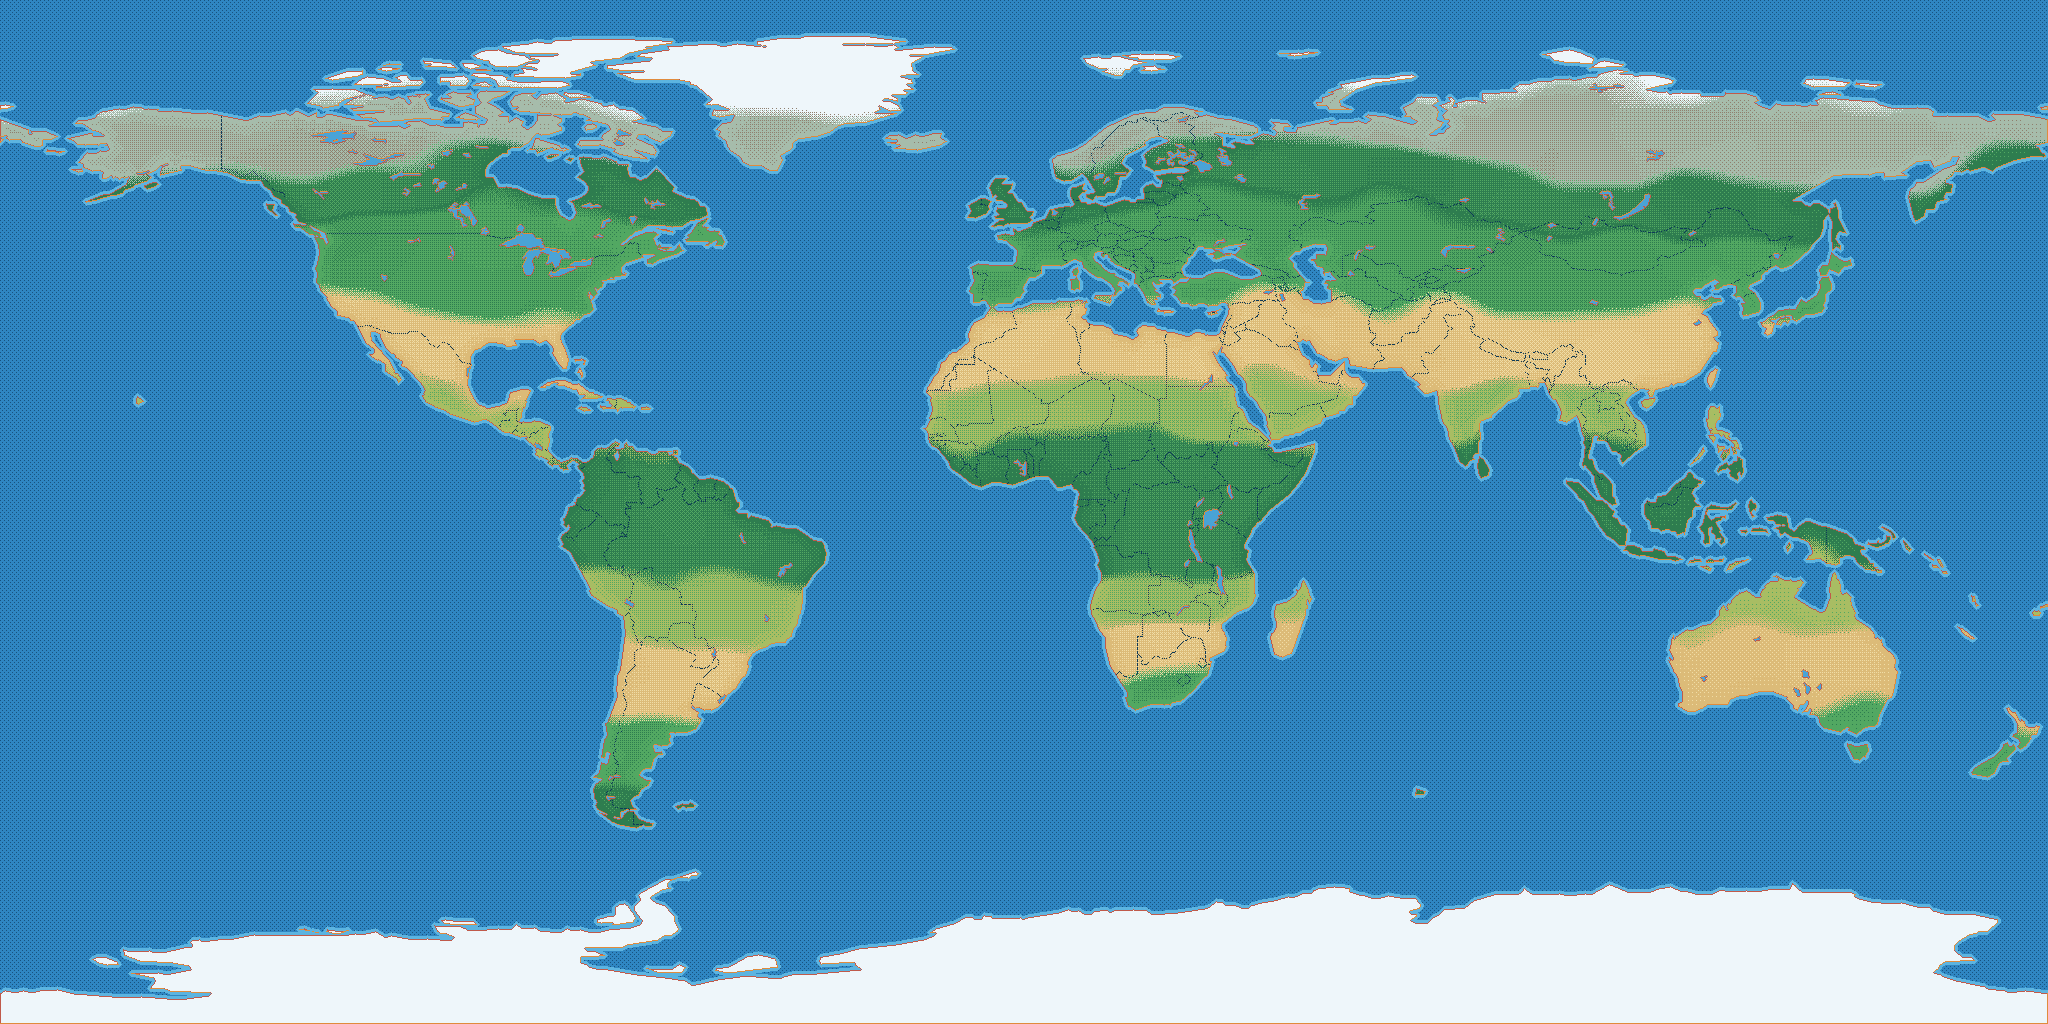
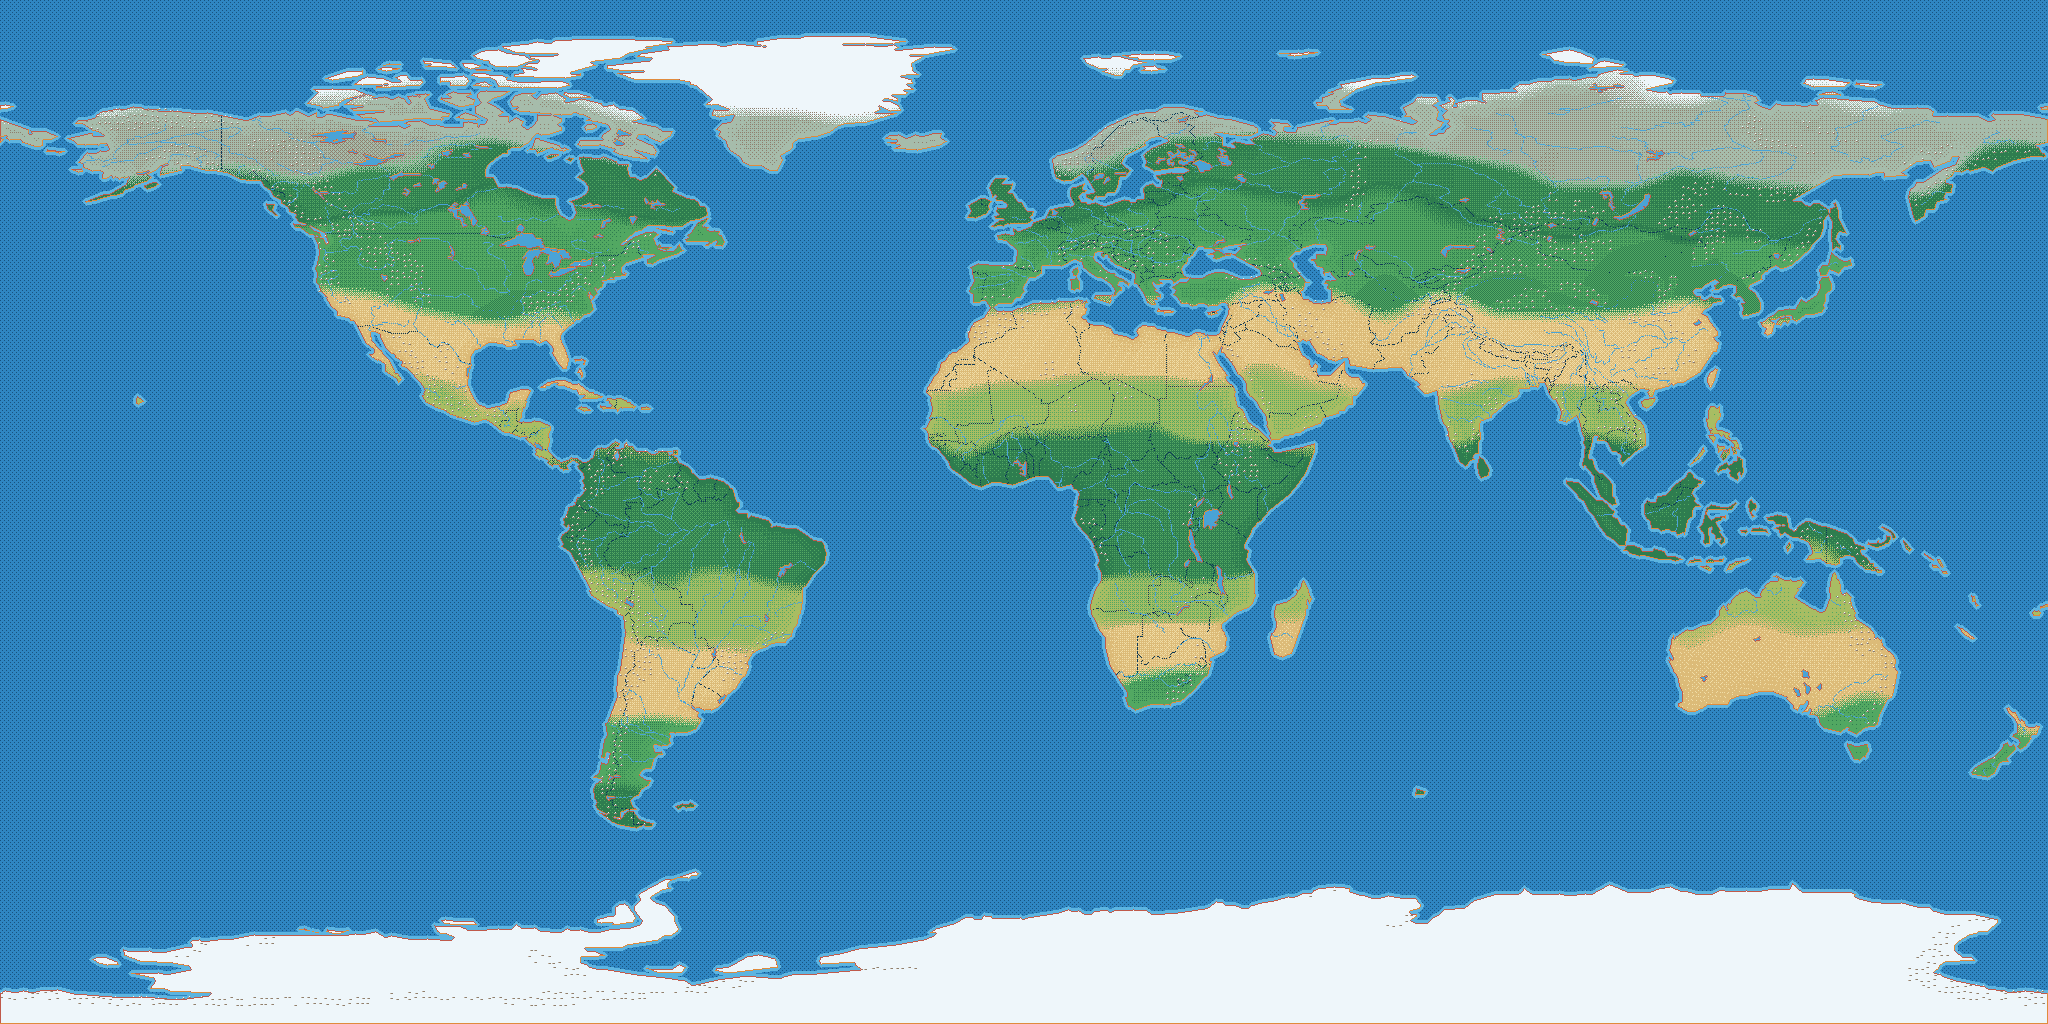
Physical terrain on the close map tiers: mountains, rivers, forests, deserts
Mountain glyphs are gated by Natural Earth's real range polygons — the Rockies
are mountains and Kansas stays plains — with jittered, randomly-thinned
placement so chains read as terrain rather than ranks. Rivers come from the
50m centerlines, stippled so they stay pixel-art. Forest bands get grass
clearings, grass bands get noise-gated forest clumps, deserts get ripples.
Far tiers stay clean.

diff --git a/tools/build_world_geometry.py b/tools/build_world_geometry.py
@@ -94,7 +94,8 @@ BAYER4 = np.array([
 
 class Lod:
     def __init__(self, name, width, height, land_src, simplify_px,
-                 min_area_px, shelf_px, lakes, borders, states, dither_scale=1.0):
+                 min_area_px, shelf_px, lakes, borders, states, dither_scale=1.0,
+                 features=False):
         self.name = name
         self.width = width
         self.height = height
@@ -108,6 +109,9 @@ class Lod:
         # Finer tiers are viewed closer, where a heavy stipple stops reading as
         # terrain and starts reading as screen noise.
         self.dither_scale = dither_scale
+        # Close tiers get physical features: mountain glyphs, rivers, forest
+        # and desert texture. Far tiers stay clean.
+        self.features = features
 
 
 # Three tiers, sized so each one displays at an integer scale at a camera zoom
@@ -121,10 +125,10 @@ LODS = [
         lakes="ne_50m_lakes", borders=None, states=None),
     Lod("lod2", 2048, 1024, "ne_110m_land", 0.75, 6.0, 3,
         lakes="ne_50m_lakes", borders="ne_110m_admin_0_boundary_lines_land", states=None,
-        dither_scale=0.7),
+        dither_scale=0.7, features=True),
     Lod("lod3", 4096, 2048, "ne_50m_land", 0.6, 8.0, 4,
         lakes="ne_50m_lakes", borders="ne_50m_admin_0_boundary_lines_land",
-        states="ne_50m_admin_1_states_provinces_lines", dither_scale=0.45),
+        states="ne_50m_admin_1_states_provinces_lines", dither_scale=0.45, features=True),
 ]
 
 
@@ -335,6 +339,97 @@ def latitude_bands(lod: Lod) -> np.ndarray:
     return index
 
 
+# ---------------------------------------------------------------------------
+# Physical features for the close tiers. All placement is deterministic: glyphs
+# sit on a jittered grid gated by real geography, so a rebuild is identical and
+# the Rockies are mountains while Kansas stays plains.
+# ---------------------------------------------------------------------------
+
+MOUNTAIN_GLYPH = [
+    (0, 3, "map_snow"),
+    (1, 2, "map_mountain_light"), (1, 3, "map_snow"), (1, 4, "map_mountain"),
+    (2, 1, "map_mountain_light"), (2, 2, "map_mountain_light"), (2, 3, "map_mountain"),
+    (2, 4, "map_mountain"), (2, 5, "map_mountain"),
+    (3, 0, "map_mountain_light"), (3, 1, "map_mountain_light"), (3, 2, "map_mountain"),
+    (3, 3, "map_mountain"), (3, 4, "map_mountain"), (3, 5, "map_mountain"),
+    (3, 6, "map_mountain"),
+]
+MOUNTAIN_GLYPH_SMALL = [
+    (0, 1, "map_snow"),
+    (1, 0, "map_mountain_light"), (1, 1, "map_mountain"), (1, 2, "map_mountain"),
+]
+
+
+def _stamp(rgb_buffer: np.ndarray, y: int, x: int, glyph) -> None:
+    height, width, _ = rgb_buffer.shape
+    for dy, dx, key in glyph:
+        yy, xx = y + dy, x + dx
+        if 0 <= yy < height and 0 <= xx < width:
+            rgb_buffer[yy, xx] = rgb(key)
+
+
+def _stamp_features(rgb_buffer: np.ndarray, lod: Lod, land: np.ndarray,
+                    band_index: np.ndarray, field: np.ndarray) -> None:
+    rng = np.random.default_rng(90210)
+    height, width = land.shape
+
+    # Rivers first, so mountains draw over their headwaters.
+    rivers = line_mask(fetch("ne_50m_rivers_lake_centerlines")["features"],
+                       lod, lod.simplify_px) & land
+    rgb_buffer[rivers & (field < 0.8)] = rgb("map_river")
+
+    # Mountain ranges from real geography.
+    regions = fetch("ne_50m_geography_regions_polys")["features"]
+    ranges = [f for f in regions
+              if f.get("properties", {}).get("FEATURECLA") == "Range/mtn"]
+    mountain = polygon_mask_features(ranges, lod) & land
+
+    glyph = MOUNTAIN_GLYPH if lod.width >= 4096 else MOUNTAIN_GLYPH_SMALL
+    cell = 9 if lod.width >= 4096 else 6
+    for gy in range(0, height - cell, cell):
+        for gx in range(0, width - cell, cell):
+            patch = mountain[gy:gy + cell, gx:gx + cell]
+            if patch.mean() < 0.4:
+                continue
+            # A quarter of the cells sit out and the rest jitter across most of
+            # the cell, so ranges read as terrain instead of marching in ranks.
+            if rng.random() < 0.25:
+                continue
+            y = gy + int(rng.integers(0, cell - 3))
+            x = gx + int(rng.integers(0, cell - 3))
+            _stamp(rgb_buffer, y, x, glyph)
+
+    # Forest clumps inside the forest band; light grass dots inside forest.
+    forest_band = _band_of("map_forest")
+    grass_band = _band_of("map_grass")
+    if forest_band >= 0:
+        in_forest = land & (band_index == forest_band) & ~mountain
+        rgb_buffer[in_forest & (field < 0.10)] = rgb("map_grass")
+    if grass_band >= 0:
+        in_grass = land & (band_index == grass_band) & ~mountain
+        clump = fractal_noise(height, width, seed=515) > 0.32
+        rgb_buffer[in_grass & clump & (field < 0.5)] = rgb("map_forest")
+
+    # Desert ripples.
+    desert_band = _band_of("map_desert")
+    if desert_band >= 0:
+        in_desert = land & (band_index == desert_band) & ~mountain
+        ripple = (np.add.outer(np.arange(height), np.arange(width) * 2) % 11) == 0
+        rgb_buffer[in_desert & ripple & (field < 0.5)] = rgb("map_desert_light")
+
+
+def _band_of(key: str) -> int:
+    for index, (_bound, band_key) in enumerate(LAT_BANDS):
+        if band_key == key:
+            return index
+    return -1
+
+
+def polygon_mask_features(features, lod: Lod) -> np.ndarray:
+    """polygon_mask for a bare feature list (already filtered)."""
+    return polygon_mask(features, lod)
+
+
 def bayer(height: int, width: int, size: int = 4) -> np.ndarray:
     """Tiled ordered-dither threshold field in 0..1."""
     base = BAYER4 if size == 4 else np.array([[0, 2], [3, 1]], dtype=np.float32) / 4.0
@@ -403,6 +498,9 @@ def render(lod: Lod) -> Image.Image:
     if lod.states:
         states = line_mask(fetch(lod.states)["features"], lod, lod.simplify_px) & land
         rgb_buffer[states & (field < 0.28)] = rgb(BORDER)
+
+    if lod.features:
+        _stamp_features(rgb_buffer, lod, land, band_index, field)
 
     # Coastline last so nothing overdraws it: a hard 1 px outline, with the
     # north-west facing edge catching the light.
